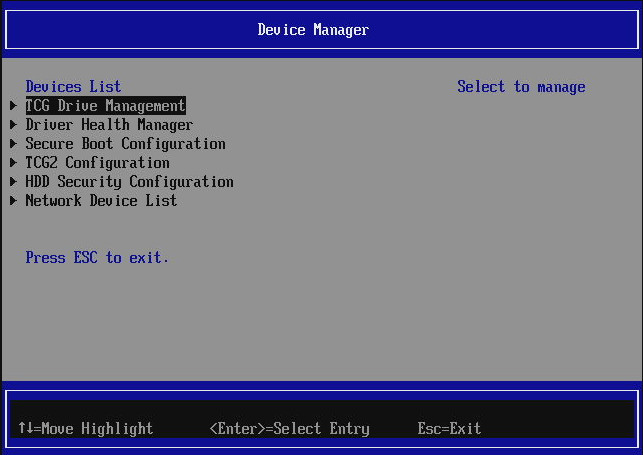
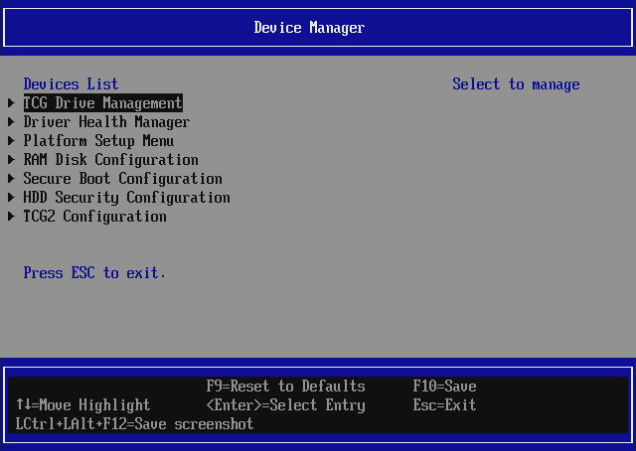
docs/dasharo-menu-docs: Add Platform Setup Menu

Changed region(s): [[0.0, 0.0, 1.0, 1.0]]

diff --git a/docs/dasharo-menu-docs/platform-setup-menu.md b/docs/dasharo-menu-docs/platform-setup-menu.md
@@ -1,0 +1,50 @@
+# Platform Setup Menu
+
+This menu contains platform-specific options. The contents of the menu depends
+on platform and may vary across boards and firmware versions.
+
+Example view of the menu options:
+
+![](../images/menus/platform_setup1.jpeg){ class="center" }
+
+![](../images/menus/platform_setup2.jpeg){ class="center" }
+
+![](../images/menus/platform_setup3.jpeg){ class="center" }
+
+## Overclocking menu
+
+Overclocking options may appear only on overclocking capable platforms such as
+Intel-based MSI PRO Z690-A/Z790-P boards. Enabling the overclocking causes
+more options to appear.
+
+!!! Danger
+
+    **These options are EXPERIMENTAL!** Be sure to have a recovery method before
+    changing any of these options. THey may cause system instability or
+    hardware damage. Use them at your own responsibility. Warranty claims due
+    to damage caused by changing this optiosn will not be accepted and support
+    is not provided.
+
+![](../images/menus/platform_setup_oc.jpeg){ class="center" }
+
+Feel free to contribute documentation and tips how to modify these options or
+to explain their meaning based on your experiments.
+
+## RAM overvolting menu
+
+RAM overvolting options are specific to DDR4 variants of Intel-based MSI PRO
+Z690-A/Z790-P boards. Changing the RAM overvolting option to manual causes
+more options to appear.
+
+!!! Danger
+
+    **These options are EXPERIMENTAL!** Be sure to have a recovery method before
+    changing any of these options. THey may cause system instability or
+    hardware damage. Use them at your own responsibility. Warranty claims due
+    to damage caused by changing this optiosn will not be accepted and support
+    is not provided.
+
+![](../images/menus/platform_setup_ramov.jpeg){ class="center" }
+
+Feel free to contribute documentation and tips how to modify these options or
+to explain their meaning based on your experiments.

diff --git a/docs/dasharo-menu-docs/device-manager.md b/docs/dasharo-menu-docs/device-manager.md
@@ -70,6 +70,12 @@ example.
 
 ![](../images/menus/health_mgr.jpeg){ class="center" }
 
+## Platform Setup Menu
+
+This submenu allows configuring platform-specific options.
+
+For more information see [Platform Setup Menu](platform-setup-menu.md)
+
 ## Secure Boot Configuration
 
 This submenu allows configuring UEFI Secure Boot functionality.
